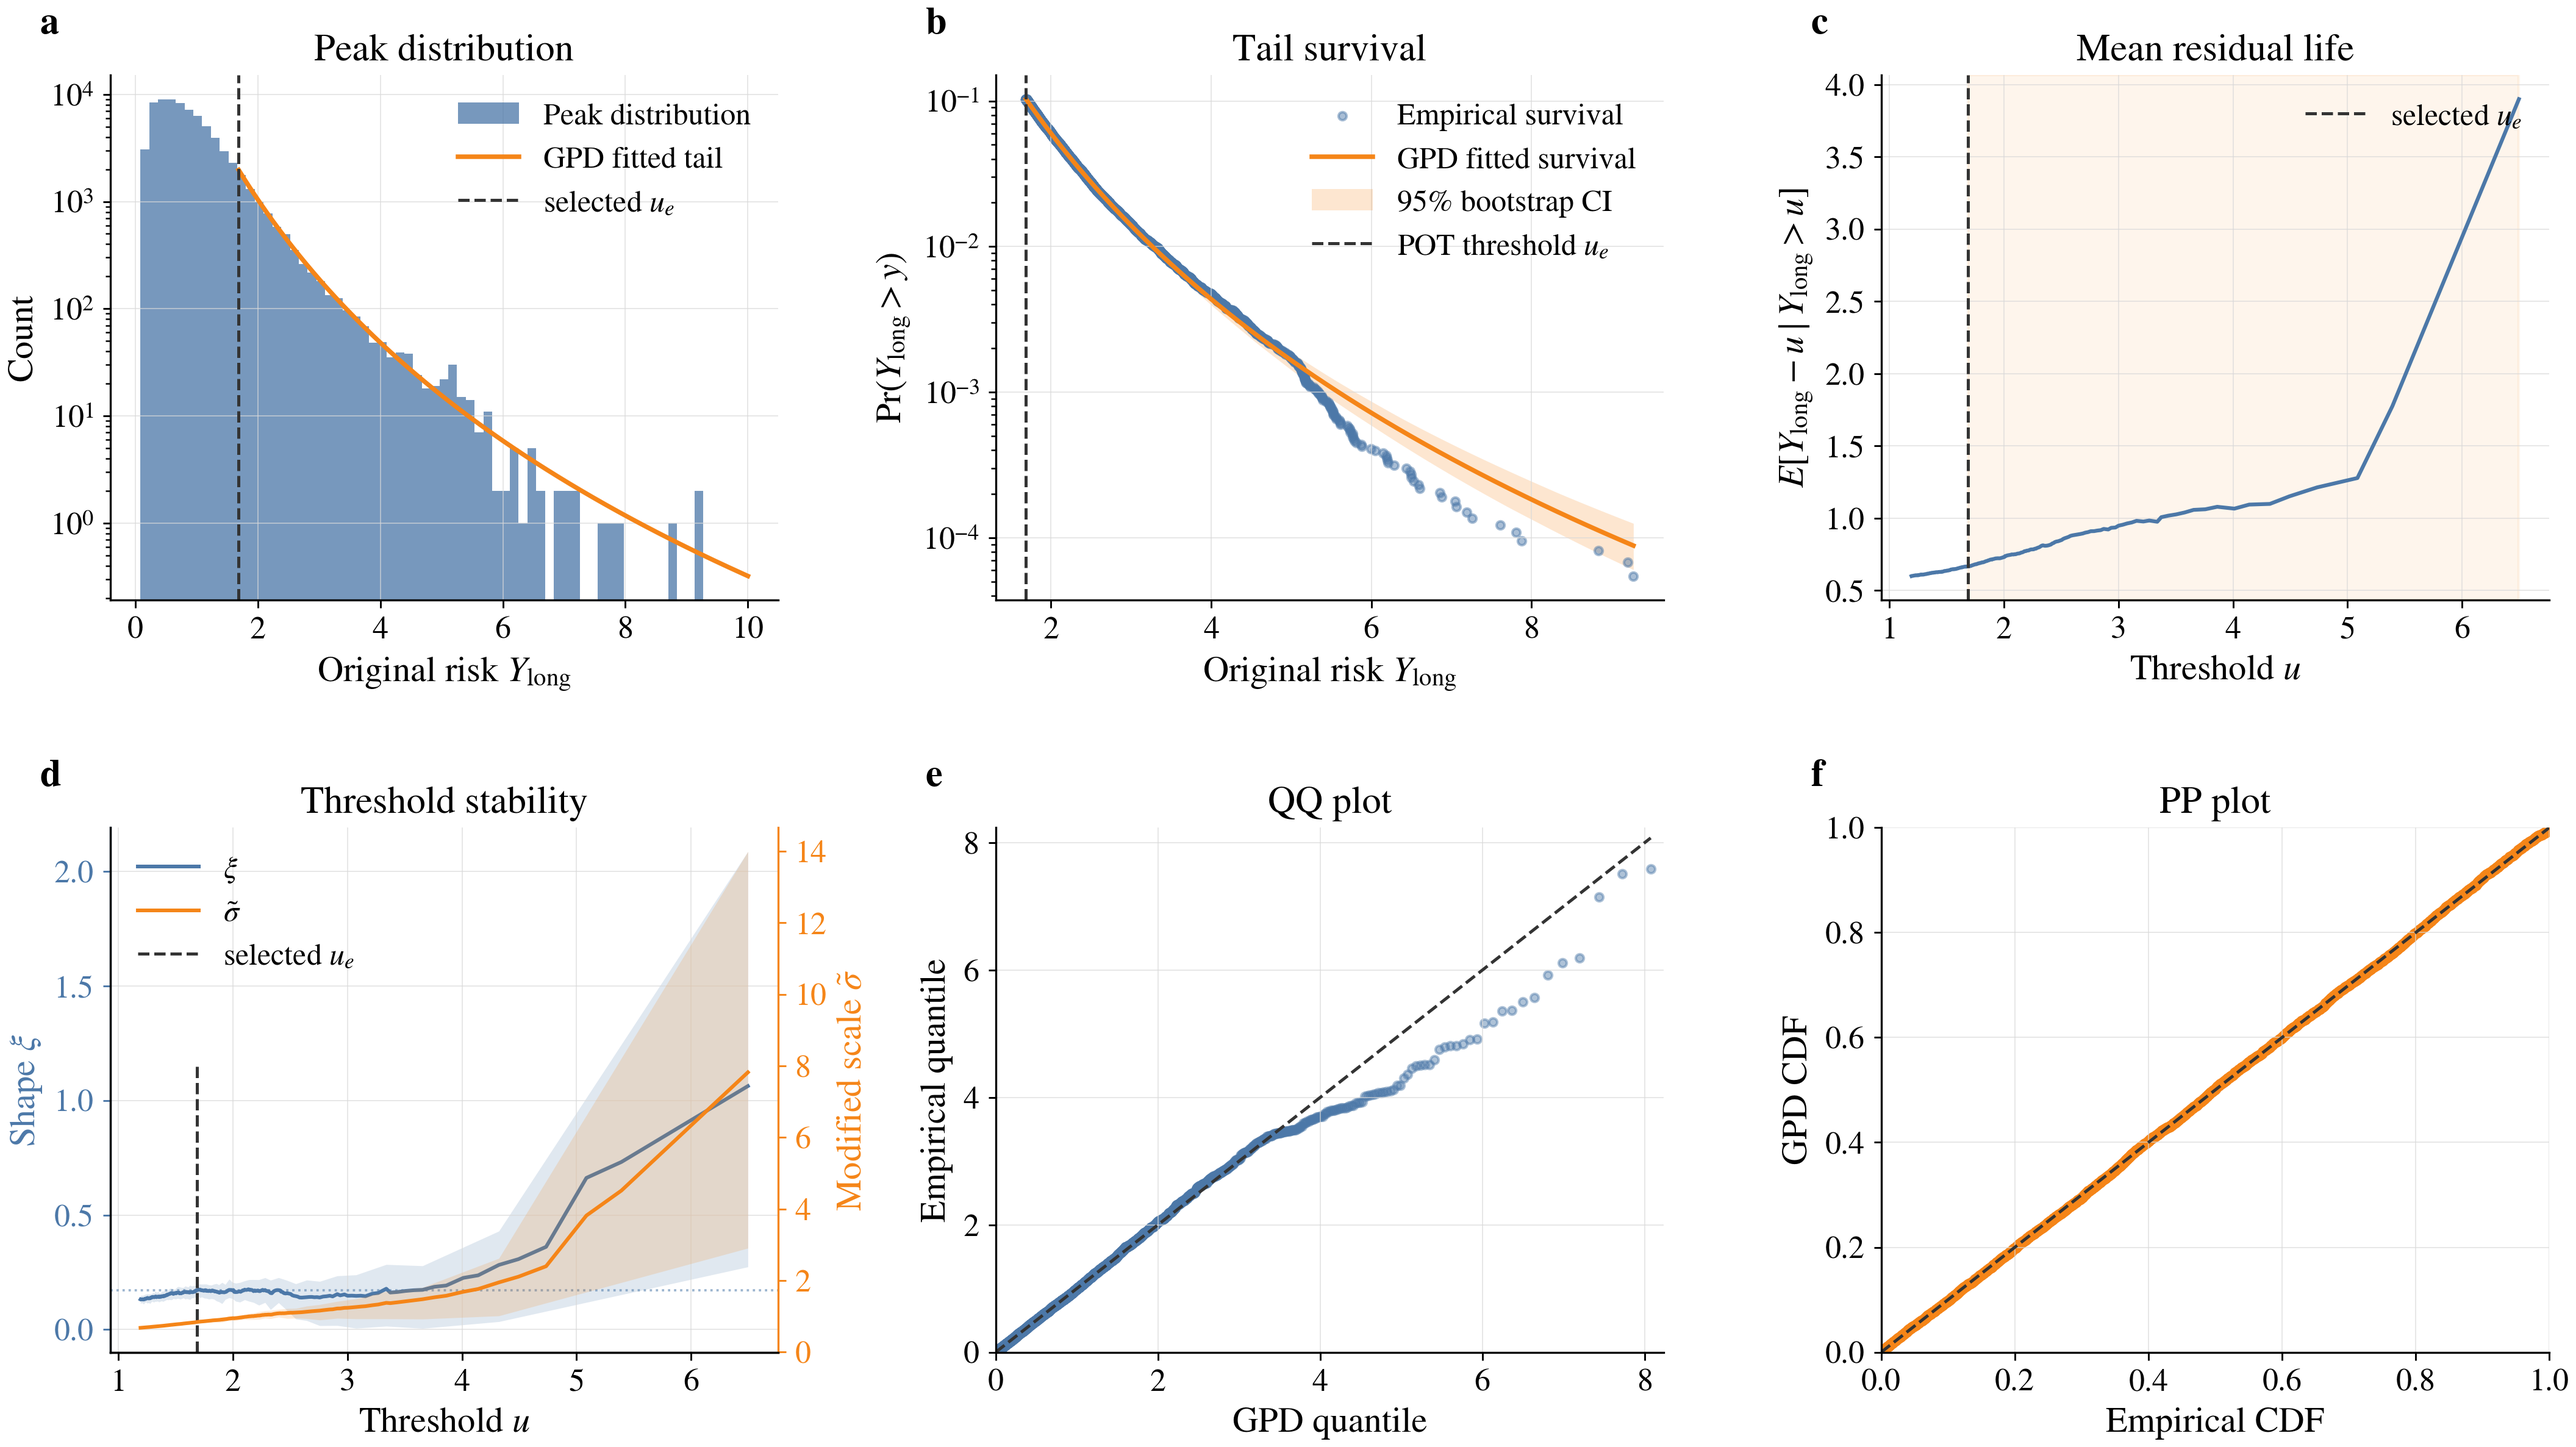
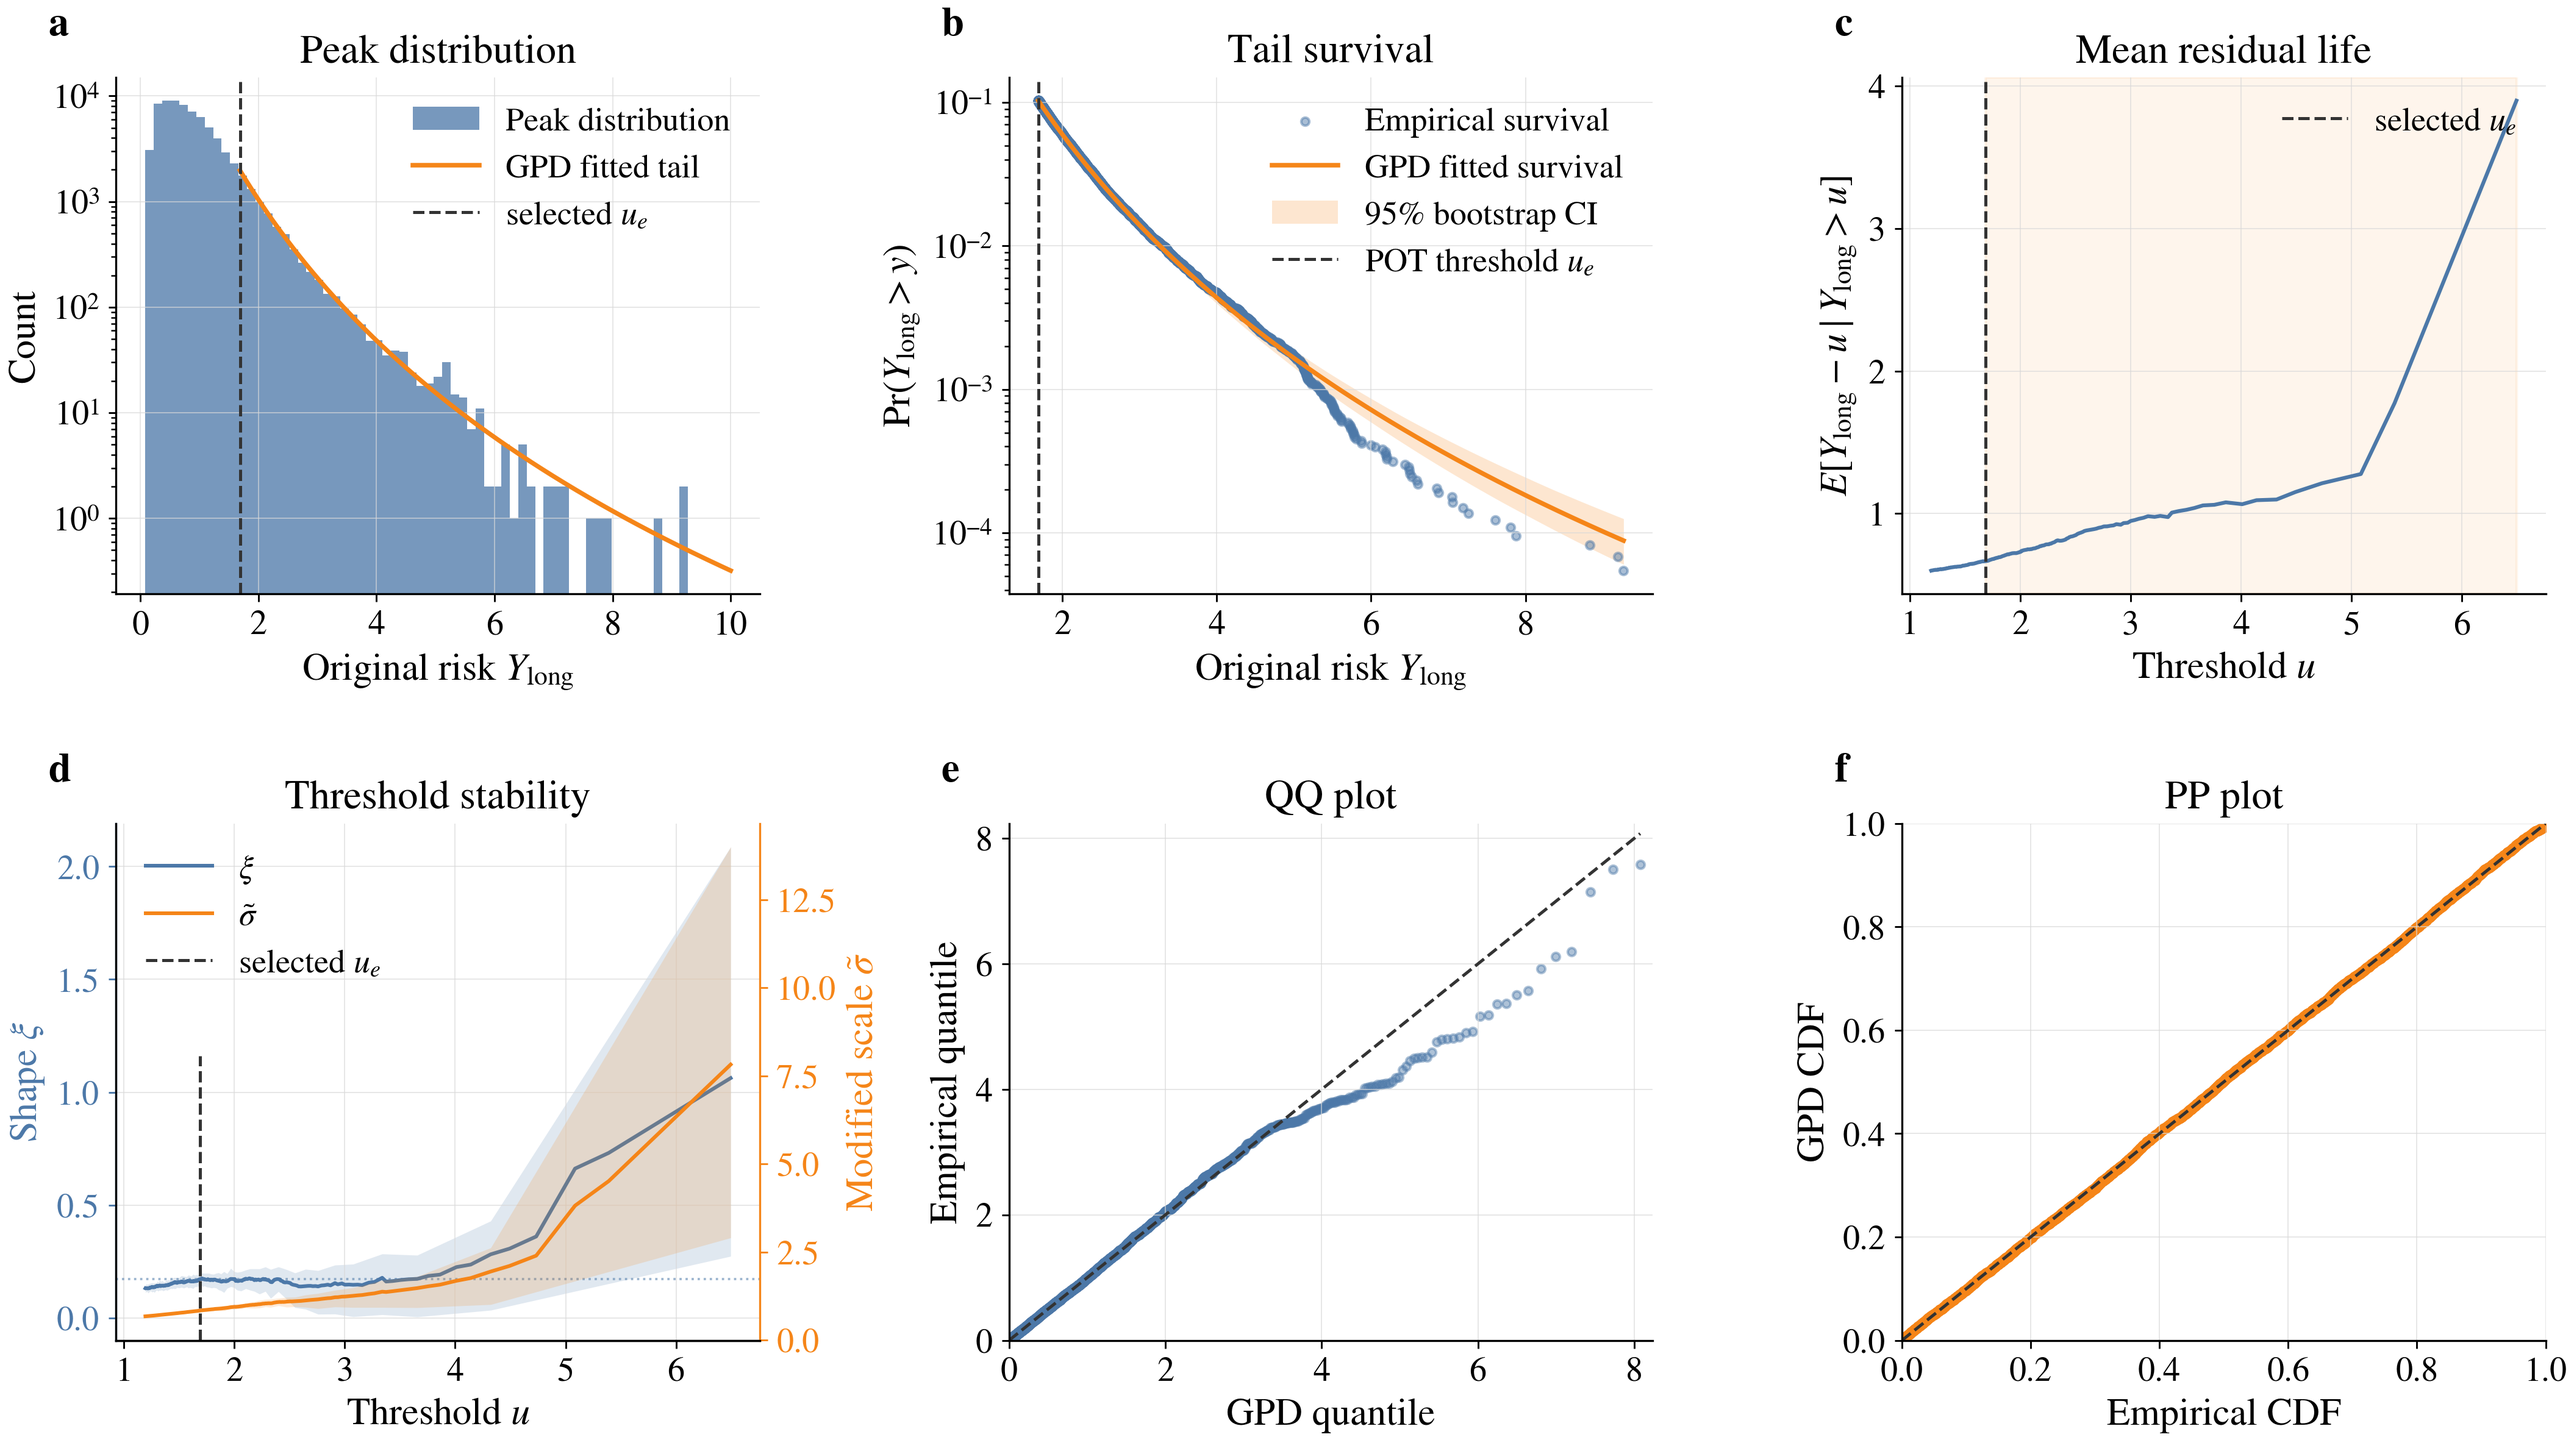
更新实验清单的创建时间，调整绘图样式的字体大小和布局参数

diff --git a/tools/plot_style.py b/tools/plot_style.py
@@ -25,14 +25,14 @@ PAPER_SERIF_FONTS = [
     "Liberation Serif",
     "DejaVu Serif",
 ]
-PAPER_PANEL_LABELSIZE = 15.0
-PAPER_ANNOTATION_FONTSIZE = 10.5
-PAPER_PROFILE_LABELSIZE = 11.0
+PAPER_PANEL_LABELSIZE = 16.0
+PAPER_ANNOTATION_FONTSIZE = 11.5
+PAPER_PROFILE_LABELSIZE = 12.0
 PAPER_SINGLE_PANEL_FIGSIZE = (6.8, 4.6)
 PAPER_SUBSET_HISTOGRAM_FIGSIZE = (6.8, 4.4)
 PAPER_PROFILE_FIGSIZE = (7.7, 5.2)
 PAPER_SIX_PANEL_FIGSIZE = (14.4, 8.2)
-PAPER_SIX_PANEL_LAYOUT = {"pad": 1.1, "w_pad": 1.7, "h_pad": 2.0}
+PAPER_SIX_PANEL_LAYOUT = {"pad": 1.05, "w_pad": 1.35, "h_pad": 1.65}
 PAPER_NOTE_BBOX = {
     "boxstyle": "round,pad=0.22",
     "facecolor": "white",
@@ -48,13 +48,13 @@ PAPER_PANEL_RC = {
     "mathtext.it": "STIXGeneral:italic",
     "mathtext.bf": "STIXGeneral:bold",
     "axes.unicode_minus": False,
-    "font.size": 12.0,
-    "axes.titlesize": 15.0,
-    "axes.labelsize": 14.0,
-    "xtick.labelsize": 12.5,
-    "ytick.labelsize": 12.5,
-    "legend.fontsize": 12.0,
-    "figure.titlesize": 15.0,
+    "font.size": 13.0,
+    "axes.titlesize": 16.0,
+    "axes.labelsize": 15.0,
+    "xtick.labelsize": 13.5,
+    "ytick.labelsize": 13.5,
+    "legend.fontsize": 13.0,
+    "figure.titlesize": 16.0,
     "axes.linewidth": 0.8,
     "grid.linewidth": 0.45,
     "lines.linewidth": 1.5,
